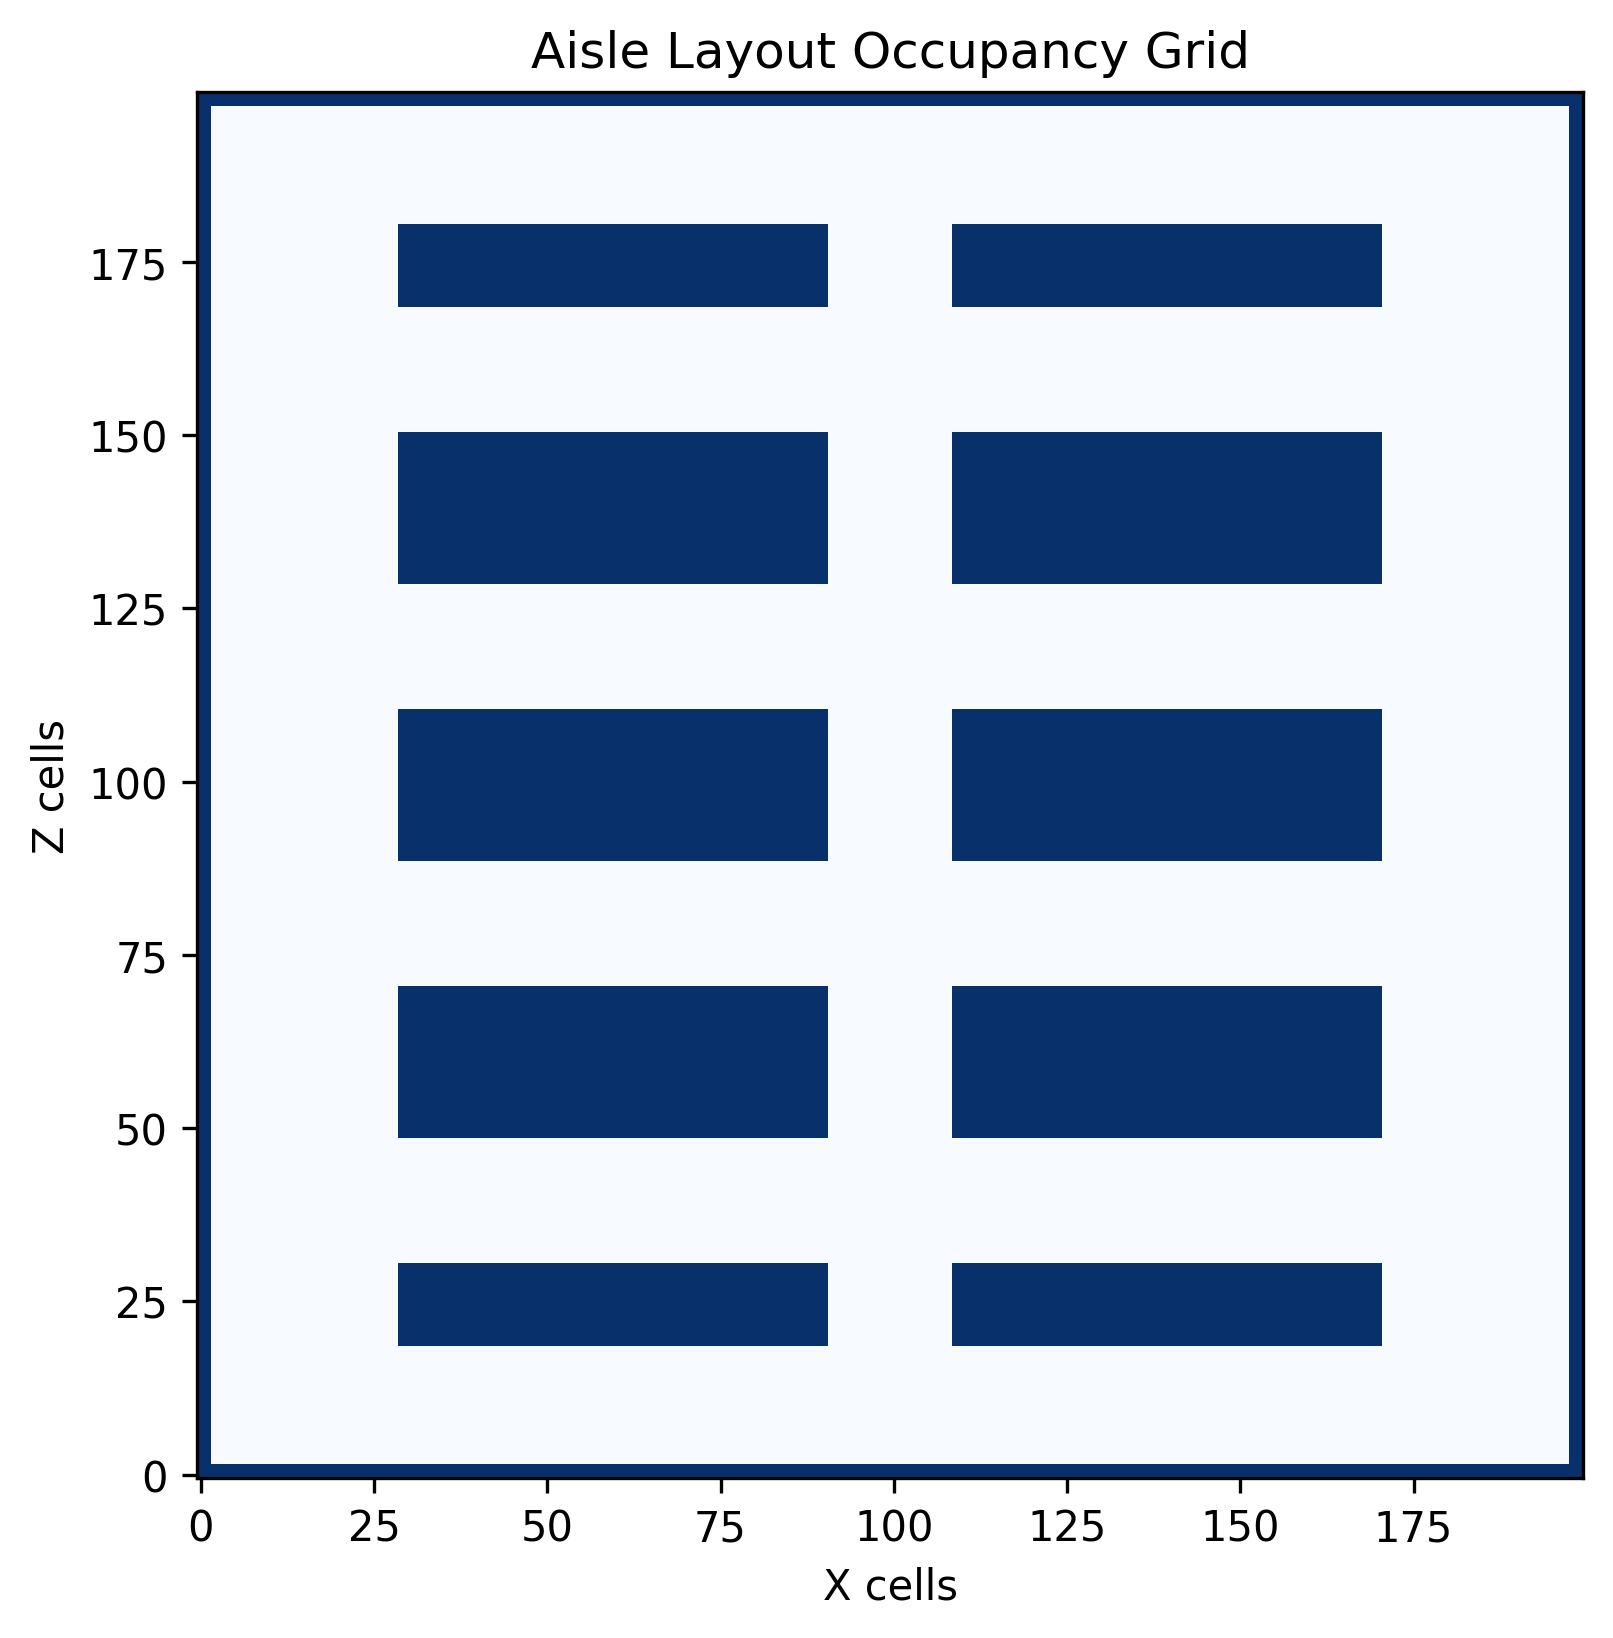
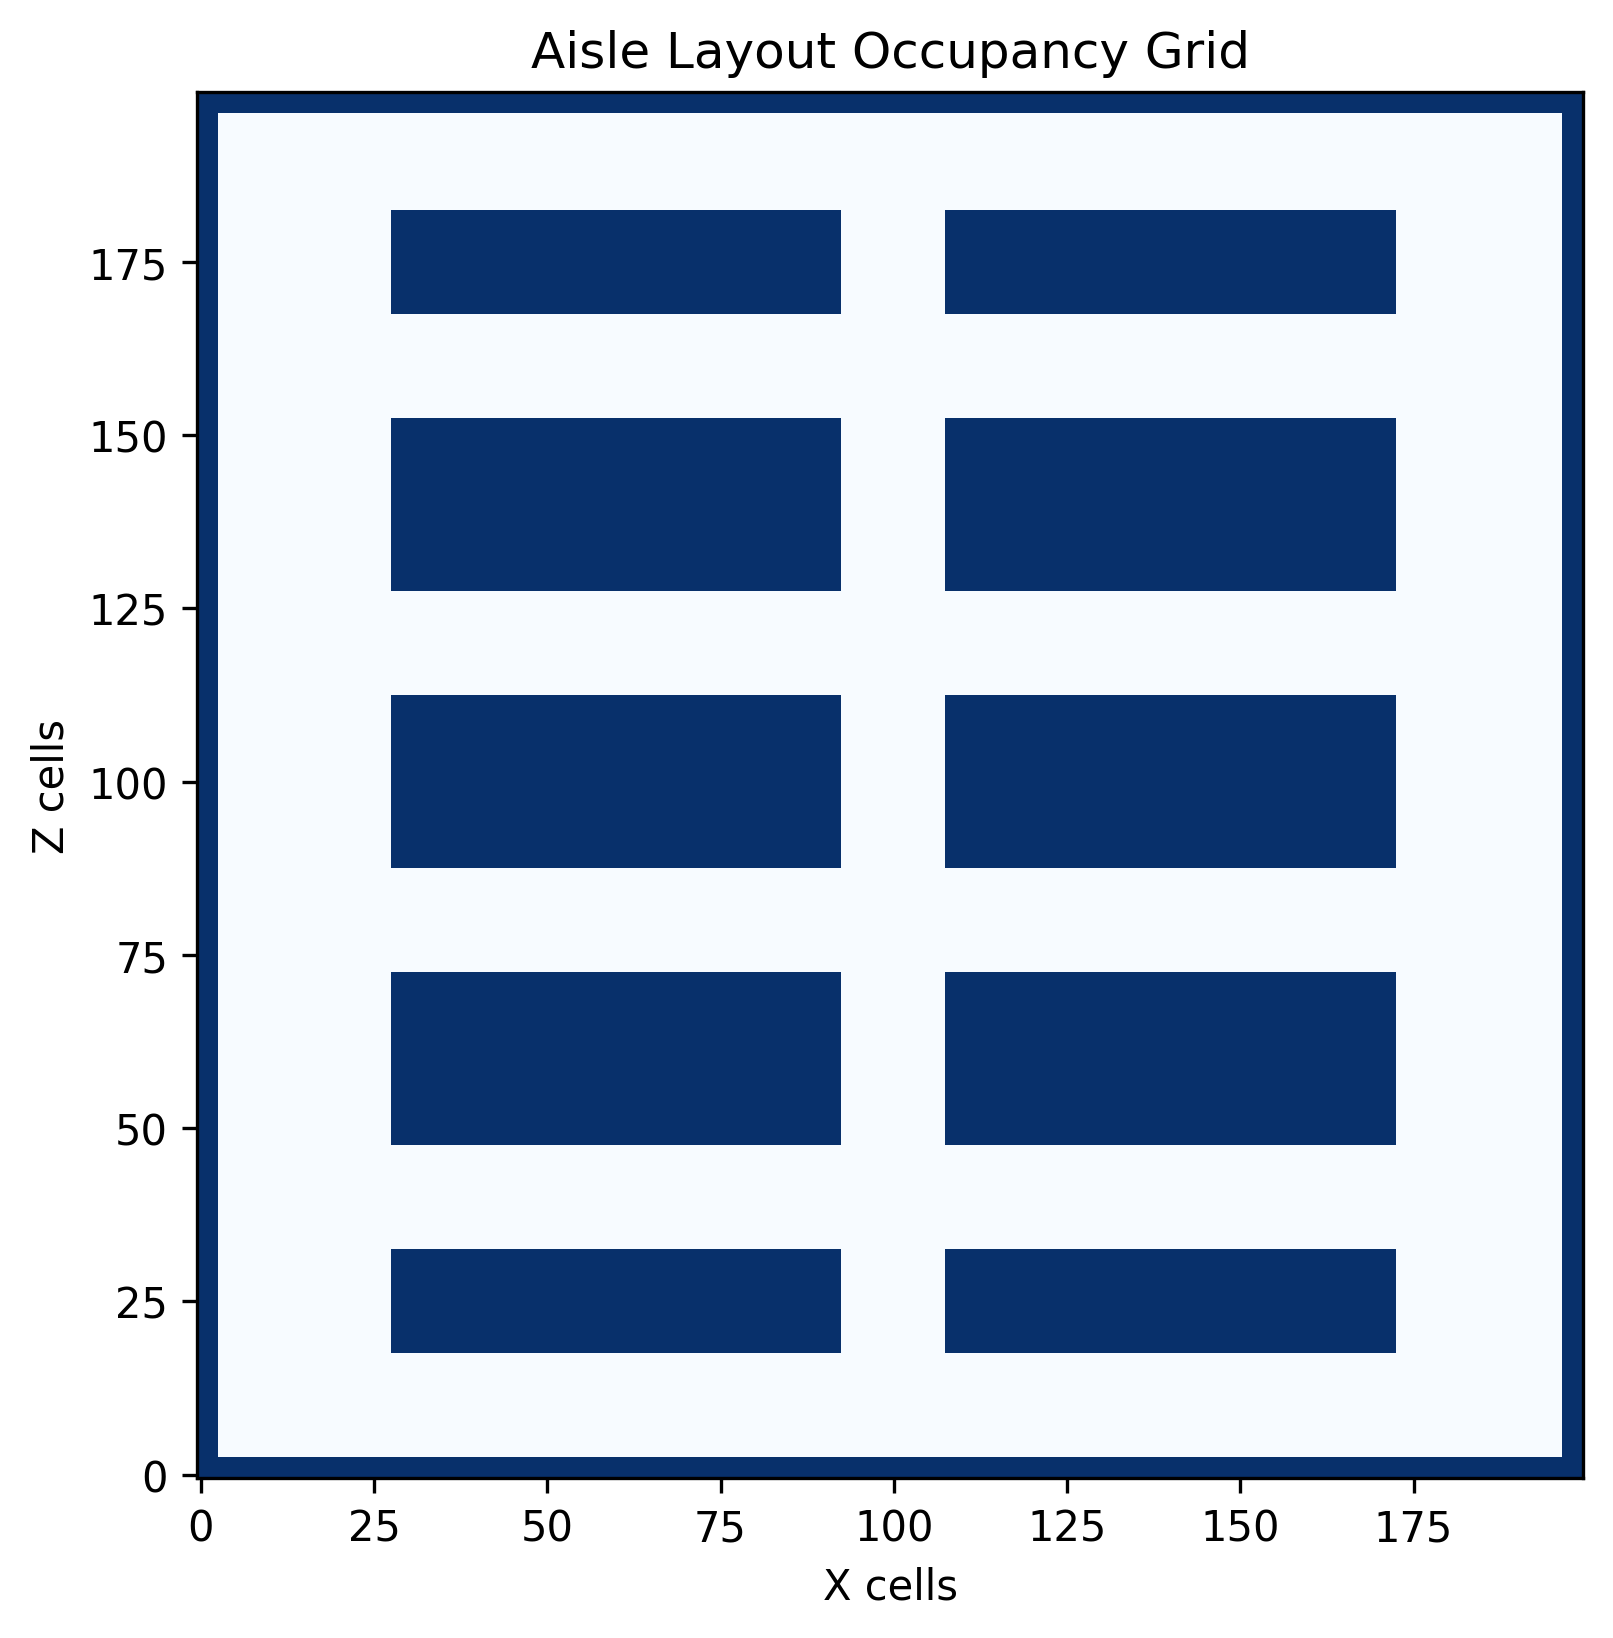
feat: Implement A* pathfinding algorithm and related functionalities - Added AStarPlanner class for pathfinding logic - Created controllers for A* planning and grid visualization - Updated grid generation to ensure correct dimensions and indexing - Added static aisle layout and updated world file fo

diff --git a/controllers/a_star_controller/a_star_controller.py b/controllers/a_star_controller/a_star_controller.py
@@ -1,0 +1,118 @@
+from controller import Supervisor
+import numpy as np
+import math
+from a_star import AStarPlanner
+
+# ================= CONSTANTS =================
+TIME_STEP = 64
+MAX_SPEED = 6.28
+
+ARENA_HALF = 10.0
+RES = 0.1
+HEIGHT_Z = 0.0
+
+WAYPOINT_TOL = 0.6
+
+ROT_SPEED = 3.5
+FWD_SPEED = 6.0
+TURN_GAIN = 1.0
+
+# ================= SUPERVISOR =================
+robot = Supervisor()
+node = robot.getFromDef("TURTLEBOT3")
+if node is None:
+    raise RuntimeError("DEF TURTLEBOT3 not found")
+
+translation = node.getField("translation")
+rotation = node.getField("rotation")
+
+left_motor = robot.getDevice("left wheel motor")
+right_motor = robot.getDevice("right wheel motor")
+
+left_motor.setPosition(float("inf"))
+right_motor.setPosition(float("inf"))
+left_motor.setVelocity(0)
+right_motor.setVelocity(0)
+
+# ================= LOAD GRID =================
+# Grid is already in [z, x] form — DO NOT transpose
+grid = np.load("../../data/maps/aisle_grid.npy")
+
+# Start and goal are (z, x)
+start = (40, 40)
+goal  = (120, 120)
+
+planner = AStarPlanner(grid)
+path = planner.plan(start, goal)
+if path is None:
+    raise RuntimeError("A* failed")
+
+# ================= GRID → WORLD =================
+def grid_to_world(path):
+    pts = []
+    for z, x in path:
+        wx = -ARENA_HALF + x * RES
+        wy = -ARENA_HALF + z * RES
+        pts.append((wx, wy))
+    return pts
+
+waypoints = grid_to_world(path)
+wp = 0
+
+# ================= INITIAL POSE =================
+sx, sy = waypoints[0]
+translation.setSFVec3f([sx, sy, HEIGHT_Z])
+rotation.setSFRotation([0, 0, 1, 0])
+
+# ================= HELPERS =================
+def wrap(a):
+    return (a + math.pi) % (2 * math.pi) - math.pi
+
+def get_pose():
+    p = translation.getSFVec3f()
+    r = rotation.getSFRotation()
+    yaw = r[3] if r[2] >= 0 else -r[3]
+    return p[0], p[1], yaw
+
+# ================= CONTROL LOOP =================
+while robot.step(TIME_STEP) != -1:
+
+    if wp >= len(waypoints):
+        left_motor.setVelocity(0)
+        right_motor.setVelocity(0)
+        print("GOAL REACHED")
+        break
+
+    x, y, yaw = get_pose()
+    wx, wy = waypoints[wp]
+
+    dx = wx - x
+    dy = wy - y
+    dist = math.hypot(dx, dy)
+
+    # Robot-frame projection
+    ex =  math.cos(yaw) * dx + math.sin(yaw) * dy
+    ey = -math.sin(yaw) * dx + math.cos(yaw) * dy
+
+    # ---------- CONTROL LOGIC ----------
+    if ex < 0.05:
+        # Waypoint not in front → rotate only
+        w = ROT_SPEED if ey > 0 else -ROT_SPEED
+        left_motor.setVelocity(-w)
+        right_motor.setVelocity(w)
+    else:
+        # Waypoint in front → drive forward + correction
+        v = FWD_SPEED
+        w = TURN_GAIN * ey
+
+        vl = v - w
+        vr = v + w
+
+        vl = max(-MAX_SPEED, min(MAX_SPEED, vl))
+        vr = max(-MAX_SPEED, min(MAX_SPEED, vr))
+
+        left_motor.setVelocity(vl)
+        right_motor.setVelocity(vr)
+
+    if dist < WAYPOINT_TOL:
+        wp += 1

diff --git a/controllers/generate_grid/generate_grid.py b/controllers/generate_grid/generate_grid.py
@@ -2,6 +2,7 @@ from controller import Supervisor
 import numpy as np
 from scipy.ndimage import binary_dilation
 import os
+import math
 
 # ================= CONFIG =================
 RESOLUTION = 0.1
@@ -18,13 +19,14 @@ timestep = int(sup.getBasicTimeStep())
 
 width  = int((X_MAX - X_MIN) / RESOLUTION)
 height = int((Z_MAX - Z_MIN) / RESOLUTION)
-grid = np.zeros((width, height), dtype=np.uint8)
+
+# FIX 1: grid should be [z, x], not [x, z]
+grid = np.zeros((height, width), dtype=np.uint8)
 
 def world_to_grid(x, z):
-    return (
-        int((x - X_MIN) / RESOLUTION),
-        int((z - Z_MIN) / RESOLUTION)
-    )
+    gx = int((x - X_MIN) / RESOLUTION)
+    gz = int((z - Z_MIN) / RESOLUTION)
+    return gx, gz
 
 # ---------- MANUAL SHELF DEFINITIONS ----------
 # (x, z, size_x, size_z)
@@ -41,7 +43,7 @@ SHELVES = [
     (-4, -7.5, 6, 1),
 ]
 
-# Rasterize shelves
+# ---------- Rasterize shelves ----------
 for x, z, sx, sz in SHELVES:
     x_min = x - sx / 2
     x_max = x + sx / 2
@@ -51,22 +53,29 @@ for x, z, sx, sz in SHELVES:
     gx0, gz0 = world_to_grid(x_min, z_min)
     gx1, gz1 = world_to_grid(x_max, z_max)
 
-    for gx in range(max(0, gx0), min(width, gx1)):
-        for gz in range(max(0, gz0), min(height, gz1)):
-            grid[gx, gz] = 1
+    # FIX 2: include boundary cells (+1)
+    for gx in range(max(0, gx0), min(width, gx1 + 1)):
+        for gz in range(max(0, gz0), min(height, gz1 + 1)):
+            grid[gz, gx] = 1   # FIX 3: correct indexing
 
-# Arena boundaries
+# ---------- Arena boundaries ----------
 grid[0, :] = 1
 grid[-1, :] = 1
 grid[:, 0] = 1
 grid[:, -1] = 1
 
-# Inflate obstacles
-inflation_cells = int(INFLATION_RADIUS / RESOLUTION)
-kernel = np.ones((2*inflation_cells+1, 2*inflation_cells+1))
-grid = binary_dilation(grid, structure=kernel)
+# ---------- Inflate obstacles ----------
+# FIX 4: use ceil, not int
+inflation_cells = math.ceil(INFLATION_RADIUS / RESOLUTION)
 
-# Save
+kernel = np.ones(
+    (2 * inflation_cells + 1,
+     2 * inflation_cells + 1)
+)
+
+grid = binary_dilation(grid, structure=kernel).astype(np.uint8)
+
+# ---------- Save ----------
 save_dir = os.path.abspath(os.path.join(os.getcwd(), "../../data/maps"))
 os.makedirs(save_dir, exist_ok=True)
 save_path = os.path.join(save_dir, "aisle_grid.npy")

diff --git a/controllers/a_star_controller/a_star.py b/controllers/a_star_controller/a_star.py
@@ -1,0 +1,62 @@
+import heapq
+import math
+
+class AStarPlanner:
+    def __init__(self, grid):
+        self.grid = grid
+        self.rows, self.cols = grid.shape
+
+        self.neighbors = [
+            (-1, 0), (1, 0), (0, -1), (0, 1),
+            (-1, -1), (-1, 1), (1, -1), (1, 1)
+        ]
+
+    def heuristic(self, a, b):
+        return math.hypot(a[0] - b[0], a[1] - b[1])
+
+    def in_bounds(self, node):
+        r, c = node
+        return 0 <= r < self.rows and 0 <= c < self.cols
+
+    def is_free(self, node):
+        r, c = node
+        return self.grid[r, c] == 0
+
+    def plan(self, start, goal):
+        open_set = []
+        heapq.heappush(open_set, (0.0, start))
+
+        came_from = {}
+        g_cost = {start: 0.0}
+
+        while open_set:
+            _, current = heapq.heappop(open_set)
+
+            if current == goal:
+                return self._reconstruct_path(came_from, current)
+
+            for dr, dc in self.neighbors:
+                neighbor = (current[0] + dr, current[1] + dc)
+
+                if not self.in_bounds(neighbor):
+                    continue
+                if not self.is_free(neighbor):
+                    continue
+
+                step_cost = math.hypot(dr, dc)
+                new_cost = g_cost[current] + step_cost
+
+                if new_cost < g_cost.get(neighbor, float("inf")):
+                    g_cost[neighbor] = new_cost
+                    f_cost = new_cost + self.heuristic(neighbor, goal)
+                    heapq.heappush(open_set, (f_cost, neighbor))
+                    came_from[neighbor] = current
+
+        return None
+
+    def _reconstruct_path(self, came_from, current):
+        path = [current]
+        while current in came_from:
+            current = came_from[current]
+            path.append(current)
+        return path[::-1]

diff --git a/controllers/a_star_controller/plot_a_star.py b/controllers/a_star_controller/plot_a_star.py
@@ -1,0 +1,46 @@
+import numpy as np
+import matplotlib.pyplot as plt
+from a_star import AStarPlanner
+
+
+def plot_grid_and_path(grid, path, start, goal):
+    plt.figure(figsize=(8, 8))
+
+    # Plot occupancy grid (grid[z, x])
+    plt.imshow(grid, cmap="Blues", origin="lower")
+
+    # Plot path
+    if path is not None:
+        rows, cols = zip(*path)   # rows = z, cols = x
+        plt.plot(cols, rows, 'r-', linewidth=2, label="A* Path")
+
+    # Plot start and goal
+    plt.scatter(start[1], start[0], c='green', s=100, marker='o', label="Start")
+    plt.scatter(goal[1], goal[0], c='blue', s=100, marker='x', label="Goal")
+
+    plt.legend()
+    plt.xlabel("X cells")
+    plt.ylabel("Z cells")
+    plt.title("A* Path on Occupancy Grid")
+    plt.grid(False)
+    plt.tight_layout()
+    plt.show()
+
+
+if __name__ == "__main__":
+    # Load occupancy grid (already in [z, x] form)
+    grid = np.load("../../data/maps/aisle_grid.npy")
+
+    # Define start and goal (z, x)
+    start = (40, 40)
+    goal = (120, 120)
+
+    # Plan directly on grid (NO transpose)
+    planner = AStarPlanner(grid)
+    path = planner.plan(start, goal)
+
+    if path is None:
+        print("No path found")
+    else:
+        print(f"Path found with {len(path)} points")
+        plot_grid_and_path(grid, path, start, goal)

diff --git a/controllers/generate_grid/test_plot_grid.py b/controllers/generate_grid/test_plot_grid.py
@@ -11,7 +11,7 @@ os.makedirs(output_dir, exist_ok=True)
 
 # Plot
 plt.figure(figsize=(6, 6))
-plt.imshow(grid.T, origin="lower", cmap="Blues")
+plt.imshow(grid, origin="lower", cmap="Blues")
 plt.title("Aisle Layout Occupancy Grid")
 plt.xlabel("X cells")
 plt.ylabel("Z cells")
